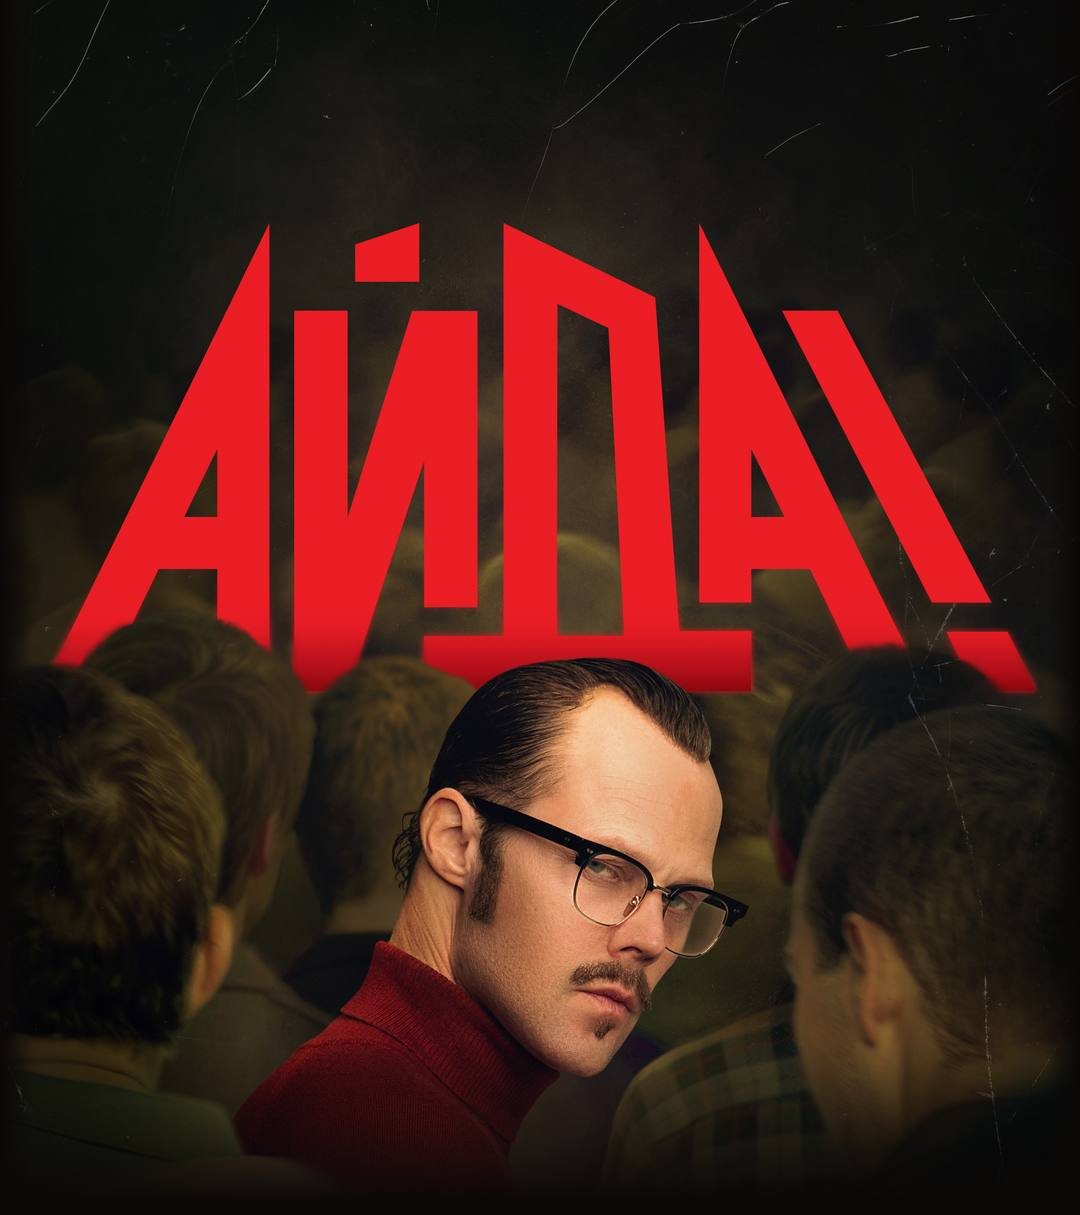
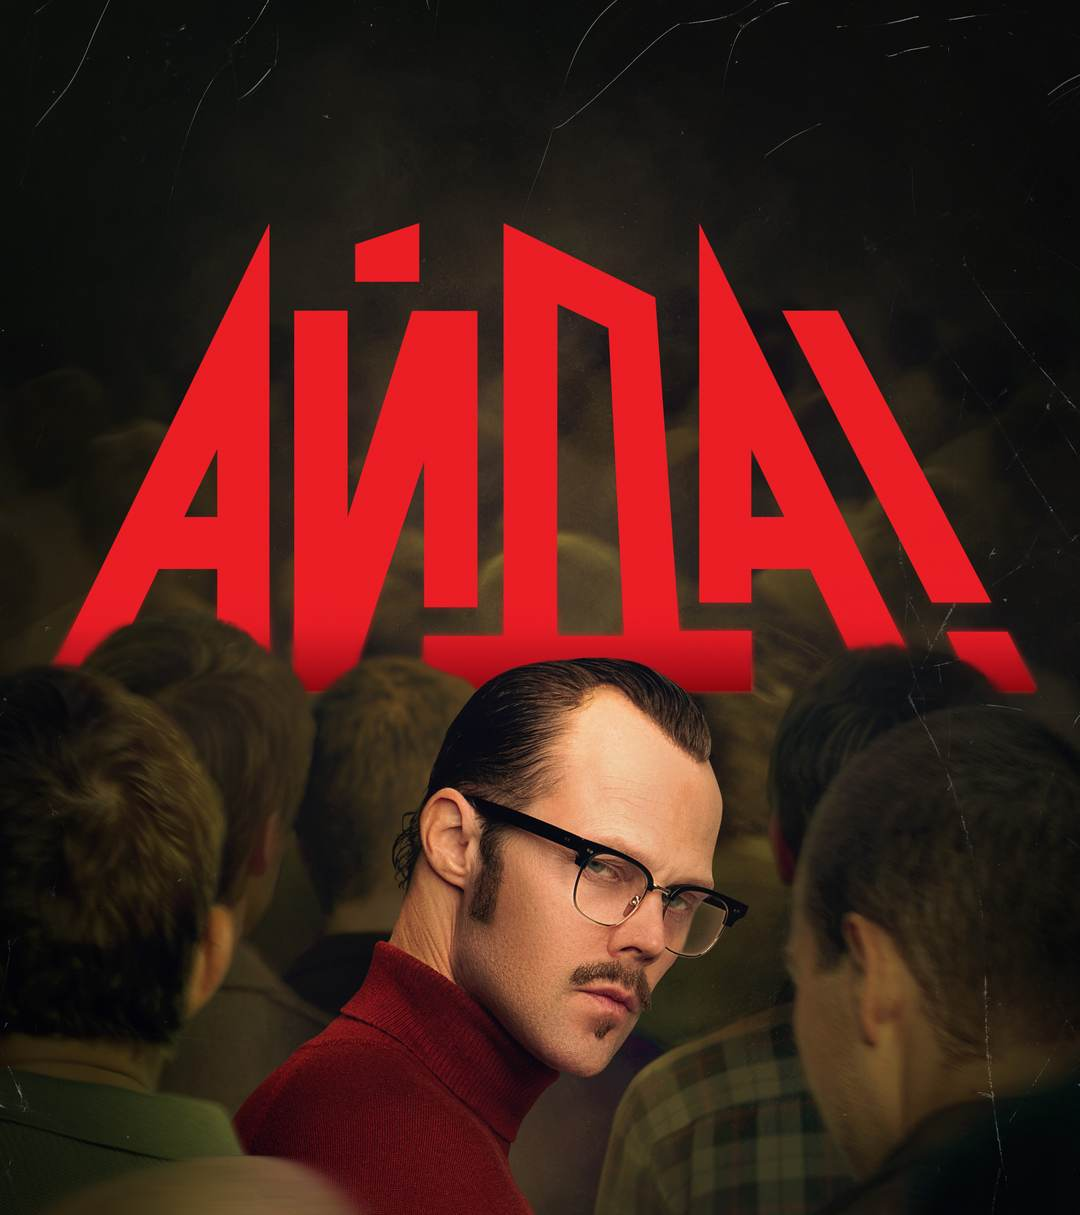
МФ START Айда №5: вернули вёрстку как в №4

Changed region(s): [[0.0306, 0.8831, 0.8556, 1.0]]

diff --git a/app.css b/app.css
@@ -10,18 +10,15 @@
   box-sizing: border-box;
 }
 
-html,
-body {
-  height: 100%;
-}
-
 html {
+  height: 100%;
   background: var(--ink);
   -webkit-text-size-adjust: 100%;
   text-size-adjust: 100%;
 }
 
 body {
+  min-height: 100%;
   font-family: -apple-system, BlinkMacSystemFont, "Segoe UI", Roboto, Arial, sans-serif;
   color: #fff;
   -webkit-tap-highlight-color: transparent;
@@ -39,30 +36,31 @@ body {
   position: relative;
   display: flex;
   flex-direction: column;
-  min-height: 100%;
+  min-height: 100vh;
+  min-height: 100svh;
   padding: 0 16px;
   overflow-x: hidden;
   background: var(--ink);
 }
 
 .art {
-  position: relative;
-  flex: 1 1 0;
-  align-self: stretch;
-  min-height: 140px;
-  margin: 0 calc(50% - 50vw) 4px;
+  --w: min(100vw, 47vh);
+  position: absolute;
+  top: 0;
+  left: 50%;
+  width: var(--w);
+  height: calc(var(--w) * 1.125);
+  margin-left: calc(var(--w) / -2);
+  background: url("poster.jpg") no-repeat center top / 100% 100%;
 }
-.art::before {
+.art::after {
   content: "";
   position: absolute;
-  top: -23.3%;
-  top: max(-23.3%, -19vw);
-  left: 0;
-  right: 0;
-  height: 138.07%;
-  background: url("poster.jpg") no-repeat center top / contain;
+  inset: 0 -2px -2px;
+  background:
+    linear-gradient(180deg, rgba(11, 9, 8, 0) 74%, rgba(11, 9, 8, 0.8) 92%, var(--ink) 99%),
+    linear-gradient(90deg, var(--ink) 0.5%, rgba(11, 9, 8, 0) 5%, rgba(11, 9, 8, 0) 95%, var(--ink) 99.5%);
 }
-
 .age {
   position: absolute;
   top: clamp(8px, 1.8vh, 16px);
@@ -91,15 +89,14 @@ body {
   text-align: center;
 }
 .brand {
-  position: relative;
-  z-index: 1;
-  order: -1;
-  flex: none;
-  padding: clamp(7px, 1.7vh, 26px) 0 clamp(5px, 1.2vh, 14px);
+  position: absolute;
+  top: calc(min(100vw, 47vh) * 0.065);
+  left: 0;
+  right: 0;
 }
 .brand__logo {
   display: block;
-  width: clamp(84px, 13.5vh, 170px);
+  width: max(84px, calc(min(100vw, 47vh) * 0.27));
   margin: 0 auto;
 }
 .title {
@@ -107,7 +104,6 @@ body {
 }
 
 .slogan {
-  position: relative;
   font-size: clamp(22px, min(7.6vw, 4.6vh), 44px);
   font-weight: 800;
   line-height: 1.1;
@@ -116,7 +112,6 @@ body {
 
 .steps,
 .footer {
-  position: relative;
   display: grid;
   width: 100%;
 }
@@ -157,7 +152,6 @@ body {
   gap: 0.4em;
   width: 100%;
   height: clamp(88px, 20vh, 190px);
-  height: clamp(88px, 20svh, 190px);
   margin-top: clamp(10px, 2vh, 20px);
   border-radius: 18px;
   background: var(--red);
@@ -224,17 +218,6 @@ body {
   color: inherit;
 }
 
-@media (orientation: portrait) and (max-height: 720px) and (max-width: 599px) {
-  .lead {
-    max-width: none;
-    font-size: clamp(9.5px, 2.95vw, 12px);
-    white-space: nowrap;
-  }
-  .btn {
-    height: clamp(88px, 18vh, 190px);
-    height: clamp(88px, 18svh, 190px);
-  }
-}
 @media (orientation: portrait) and (max-height: 520px) {
   .lead {
     display: none;
@@ -248,8 +231,6 @@ body {
 
 @media (orientation: landscape) {
   .wrapper {
-    min-height: 100vh;
-    min-height: 100svh;
     padding: 0 10vw;
     background:
       linear-gradient(90deg, var(--ink) 4%, rgba(11, 9, 8, 0) 40%, rgba(11, 9, 8, 0) 88%, var(--ink) 98%) no-repeat right calc(6vw - 3px) top / 129vh 71vh,
@@ -273,7 +254,6 @@ body {
     flex-direction: column;
     align-items: center;
     margin-bottom: clamp(5px, 1.2vh, 12px);
-    padding: 0;
   }
   .brand__logo {
     width: clamp(70px, 18vh, 150px);

diff --git a/index.html b/index.html
@@ -11,10 +11,10 @@
     <input type="checkbox" id="gate" class="gate" autocomplete="off" tabindex="-1" aria-hidden="true" />
 
     <div class="wrapper">
+      <div class="art"></div>
       <span class="age">18+</span>
 
       <main class="main">
-        <div class="art"></div>
         <div class="brand">
           <img src="logo.png" class="brand__logo" alt="Онлайн-кинотеатр START" />
           <img src="title.png" class="title" alt="Айда!" />
